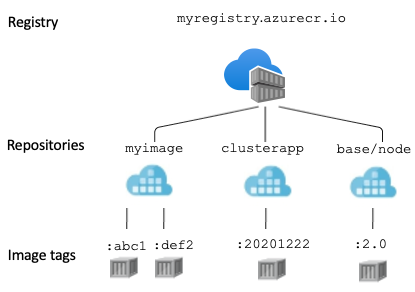
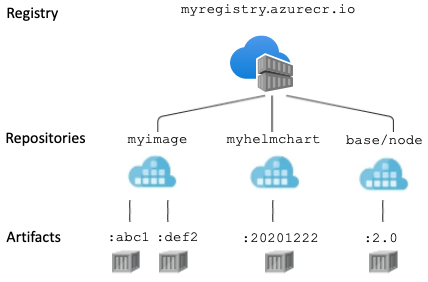
image -> artifact

diff --git a/articles/container-registry/container-registry-concepts.md b/articles/container-registry/container-registry-concepts.md
@@ -1,28 +1,25 @@
 ---
-title: About repositories & images
-description: Introduction to key concepts of Azure container registries, repositories, and container images.
+title: About registries, repositories, images, and artifacts
+description: Introduction to key concepts of Azure container registries, repositories, container images, and other artifacts.
 ms.topic: article
-ms.date: 01/05/2021
+ms.date: 01/29/2021
 ---
 
-# About registries, repositories, and images
+# About registries, repositories, and artifacts
 
 This article introduces the key concepts of container registries, repositories, and container images and related artifacts. 
 
-:::image type="content" source="media/container-registry-concepts/registry-elements.png" alt-text="Registry, repositories, and images":::
+:::image type="content" source="media/container-registry-concepts/registry-elements.png" alt-text="Registry, repositories, and artifacts":::
 
 ## Registry
 
-A container *registry* is a service that stores and distributes container images. Docker Hub is an example of a public container registry that serves as a general catalog of images. Azure Container Registry provides users with direct control of their images, with integrated authentication, [geo-replication](container-registry-geo-replication.md) supporting global distribution and reliability for network-close deployments, [virtual network configuration with Private Link](container-registry-private-link.md), [tag locking](container-registry-image-lock.md), and many other enhanced features. 
+A container *registry* is a service that stores and distributes container images and related artifacts. Docker Hub is an example of a public container registry that serves as a general catalog of Docker container images. Azure Container Registry provides users with direct control of their container content, with integrated authentication, [geo-replication](container-registry-geo-replication.md) supporting global distribution and reliability for network-close deployments, [virtual network configuration with Private Link](container-registry-private-link.md), [tag locking](container-registry-image-lock.md), and many other enhanced features. 
 
-In addition to Docker container images, Azure Container Registry supports related [content artifacts](container-registry-image-formats.md) including Open Container Initiative (OCI) image formats.
+In addition to Docker-compatible container images, Azure Container Registry supports a range of [content artifacts](container-registry-image-formats.md) including Helm charts and Open Container Initiative (OCI) image formats.
 
-When using Docker or other client tools to pull or push artifacts to an Azure container registry, use the registry's fully qualified name, also called the *login server* name. In the Azure cloud, the fully qualified name of an Azure container registry is in the format `myregistry.azurecr.io` (all lowercase).
- 
 ## Repository
 
 A *repository* is a collection of container images or other artifacts in a registry that have the same name, but different tags. For example, the following three images are in the `acr-helloworld` repository:
-
 
 - *acr-helloworld:latest*
 - *acr-helloworld:v1*
@@ -40,7 +37,7 @@ Repository names can only include lowercase alphanumeric characters, periods, da
 
 For complete repository naming rules, see the [Open Container Initiative Distribution Specification](https://github.com/docker/distribution/blob/master/docs/spec/api.md#overview).
 
-## Image
+## Artifact
 
 A container image or other artifact within a registry is associated with one or more tags, has one or more layers, and is identified by a manifest. Understanding how these components relate to each other can help you manage your registry effectively.
 
@@ -56,17 +53,17 @@ For tag naming rules, see the [Docker documentation](https://docs.docker.com/eng
 
 ### Layer
 
-Container images are made up of one or more *layers*, each corresponding to a line in the Dockerfile that defines the image. Images in a registry share common layers, increasing storage efficiency. For example, several images in different repositories might have a common ASP.NET Core base layer, but only one copy of that layer is stored in the registry.
+Container images and artifacts are made up of one or more *layers*. Different artifact types define layers differently. For example, in a Docker container image, each layer corresponds to a line in the Dockerfile that defines the image:
 
 :::image type="content" source="media/container-registry-concepts/container-image-layers.png" alt-text="Layers of a container image":::
 
-Layer sharing also optimizes layer distribution to nodes, with multiple images sharing common layers. For example, if an image already on a node includes the ASP.NET Core layer as its base, the subsequent pull of a different image referencing the same layer doesn't transfer the layer to the node. Instead, it references the layer already existing on the node.
+Artifacts in a registry share common layers, increasing storage efficiency. For example, several images in different repositories might have a common ASP.NET Core base layer, but only one copy of that layer is stored in the registry. Layer sharing also optimizes layer distribution to nodes, with multiple artifacts sharing common layers. If an image already on a node includes the ASP.NET Core layer as its base, the subsequent pull of a different image referencing the same layer doesn't transfer the layer to the node. Instead, it references the layer already existing on the node.
 
 To provide secure isolation and protection from potential layer manipulation, layers are not shared across registries.
 
 ### Manifest
 
-Each container image or artifact pushed to a container registry is associated with a *manifest*. The manifest, generated by the registry when the image is pushed, uniquely identifies the image and specifies its layers. You can list the manifests for a repository with the Azure CLI command [az acr repository show-manifests][az-acr-repository-show-manifests]:
+Each container image or artifact pushed to a container registry is associated with a *manifest*. The manifest, generated by the registry when the content is pushed, uniquely identifies the artifacts and specifies the layers. You can list the manifests for a repository with the Azure CLI command [az acr repository show-manifests][az-acr-repository-show-manifests]:
 
 ```azurecli
 az acr repository show-manifests --name <acrName> --repository <repositoryName>
@@ -107,24 +104,29 @@ az acr repository show-manifests --name myregistry --repository acr-helloworld
 
 ### Manifest digest
 
-Manifests are identified by a unique SHA-256 hash, or *manifest digest*. Each image or artifact--whether tagged or not--is identified by its digest. The digest value is unique even if the image's layer data is identical to that of another image. This mechanism is what allows you to repeatedly push identically tagged images to a registry. For example, you can repeatedly push `myimage:latest` to your registry without error because each image is identified by its unique digest.
+Manifests are identified by a unique SHA-256 hash, or *manifest digest*. Each image or artifact--whether tagged or not--is identified by its digest. The digest value is unique even if the artifact's layer data is identical to that of another artifact. This mechanism is what allows you to repeatedly push identically tagged images to a registry. For example, you can repeatedly push `myimage:latest` to your registry without error because each image is identified by its unique digest.
 
-You can pull an image from a registry by specifying its digest in the pull operation. Some systems may be configured to pull by digest because it guarantees the image version being pulled, even if an identically tagged image is pushed later to the registry.
+You can pull an artifact from a registry by specifying its digest in the pull operation. Some systems may be configured to pull by digest because it guarantees the image version being pulled, even if an identically tagged image is pushed later to the registry.
 
 > [!IMPORTANT]
-> If you repeatedly push modified images with identical tags, you might create orphaned images--images that are untagged, but still consume space in your registry. Untagged images are not shown in the Azure CLI or in the Azure portal when you list or view images by tag. However, their layers still exist and consume space in your registry. Deleting an untagged image frees registry space when the manifest is the only one, or the last one, pointing to a particular layer. For information about freeing space used by untagged images, see [Delete container images in Azure Container Registry](container-registry-delete.md).
+> If you repeatedly push modified artifacts with identical tags, you might create "orphans"--artifacts that are untagged, but still consume space in your registry. Untagged images are not shown in the Azure CLI or in the Azure portal when you list or view images by tag. However, their layers still exist and consume space in your registry. Deleting an untagged image frees registry space when the manifest is the only one, or the last one, pointing to a particular layer. For information about freeing space used by untagged images, see [Delete container images in Azure Container Registry](container-registry-delete.md).
 
 ## Addressing an artifact
 
-To address a registry artifact for push and pull operations with Docker or other client tools, combine the fully qualified registry name, repository name (including namespace path if applicable), and an image tag or manifest digest. See previous sections for explanations of these terms.
+To address a registry artifact for push and pull operations with Docker or other client tools, combine the fully qualified registry name, repository name (including namespace path if applicable), and an artifact tag or manifest digest. See previous sections for explanations of these terms.
+
+  **Address by tag**: `[loginServerUrl]/[repository][:tag]`
+    
+  **Address by digest**: `[loginServerUrl]/[repository@sha256][:digest]`  
+
+When using Docker or other client tools to pull or push artifacts to an Azure container registry, use the registry's fully qualified URL, also called the *login server* name. In the Azure cloud, the fully qualified URL of an Azure container registry is in the format `myregistry.azurecr.io` (all lowercase).
 
 > [!NOTE]
+> * You can't specify a port number in the registry login server URL, such as `myregistry.azurecr.io:443`. 
 > * The tag `latest` is used by default if you don't provide a tag in your command.  
-> * You can't specify a port number in the registry login server URL, such as `myregistry.azurecr.io:443`.    
 
+   
 ### Push by tag
-
-   `[loginServerUrl]/[repository][:tag]`
 
 Examples: 
 
@@ -134,16 +136,12 @@ Examples:
 
 ### Pull by tag
 
-   `[loginServerUrl]/[repository][:tag]` 
-
-
 Example: 
 
   `docker pull myregistry.azurecr.io/marketing/campaign10-18/email-sender:v2`
 
 ### Pull by manifest digest
 
-  `[loginServerUrl]/[repository@sha256][:digest]`
 
 Example:
 
@@ -153,7 +151,7 @@ Example:
 
 ## Next steps
 
-Learn more about [image storage](container-registry-storage.md) and [supported content formats](container-registry-image-formats.md) in Azure Container Registry.
+Learn more about [registry storage](container-registry-storage.md) and [supported content formats](container-registry-image-formats.md) in Azure Container Registry.
 
 Learn how to [push and pull images](container-registry-get-started-docker-cli.md) from Azure Container Registry.
 
